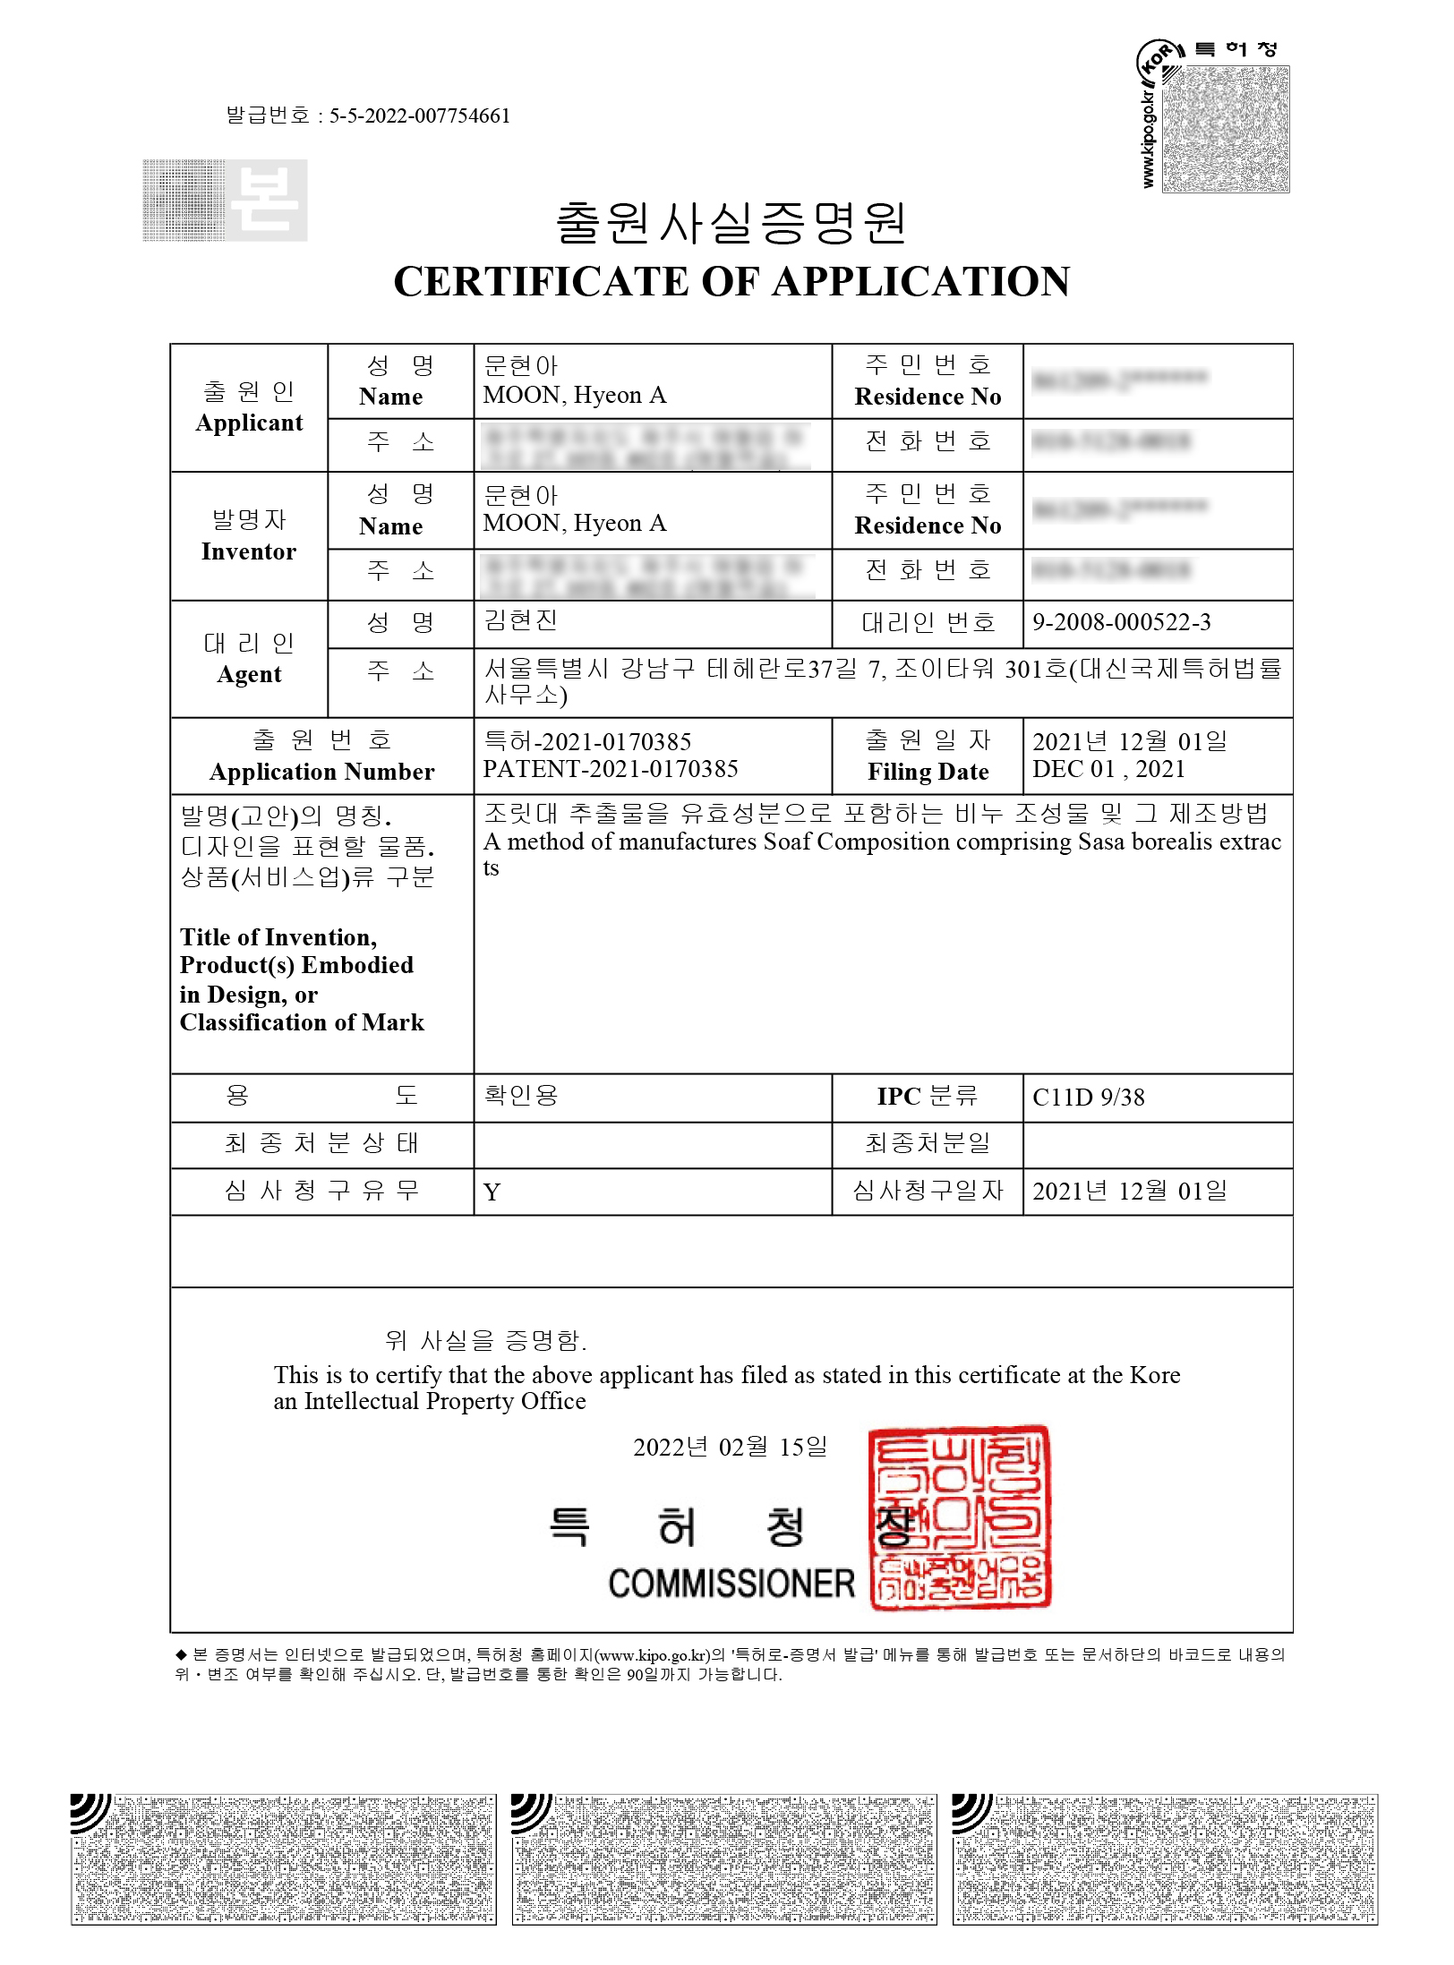
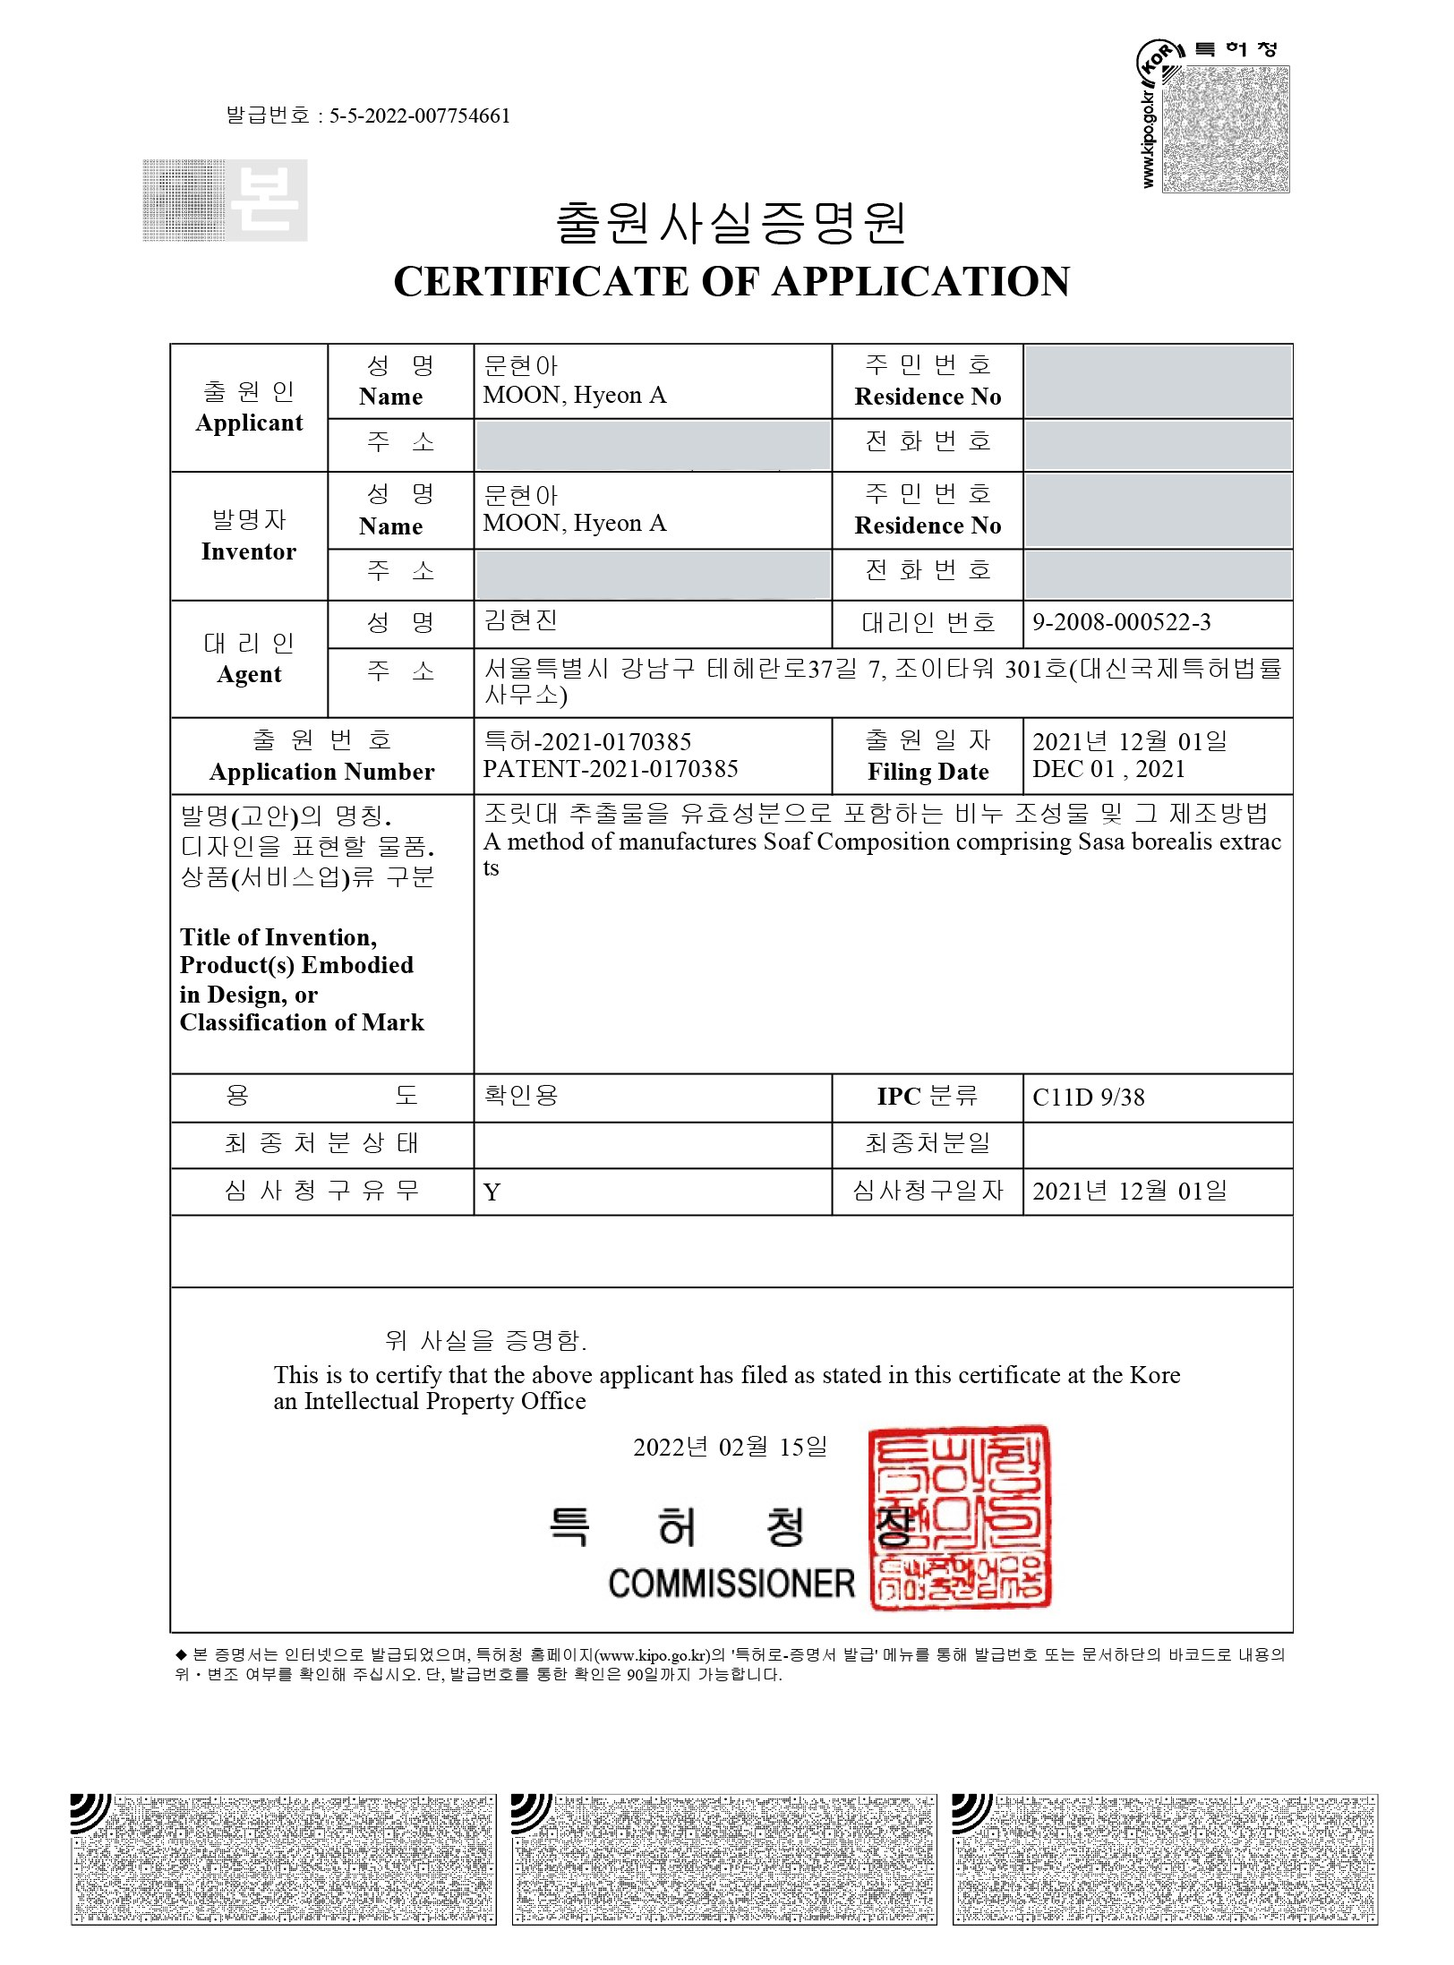
Show research documents at A4, mask personal data, refresh social value
Research slides use A4 cards. Application certificates now cover resident
numbers, phone numbers and addresses with solid fills instead of a light blur.
Social value cards take the supplied copy and an Earth and nature backdrop.

diff --git a/public/assets/css/main.css b/public/assets/css/main.css
@@ -1123,10 +1123,11 @@ html[lang="en"] .about-reveal-line {
 
 /* Side cards sit on a full-width band; the centre card grows past the band and over its neighbours. */
 .research-slider {
-    --research-card-w: clamp(150px, 16.25vw, 320px);
-    --research-card-h: calc(var(--research-card-w) * .93);
-    --research-active-w: calc(var(--research-card-w) * 1.73);
-    --research-active-h: calc(var(--research-card-w) * 1.41);
+    /* Cards keep the A4 ratio (210 x 297), so a certificate fills its card. */
+    --research-active-w: clamp(270px, min(30vw, 50svh), 520px);
+    --research-active-h: calc(var(--research-active-w) * 297 / 210);
+    --research-card-w: calc(var(--research-active-w) / 1.4);
+    --research-card-h: calc(var(--research-active-h) / 1.4);
     position: relative;
     width: 100%;
 }
@@ -1136,7 +1137,7 @@ html[lang="en"] .about-reveal-line {
     top: 50%;
     right: 0;
     left: 0;
-    height: calc(var(--research-card-w) * 1.32);
+    height: var(--research-card-w);
     background: var(--grey-100);
     content: "";
     transform: translateY(-50%);
@@ -1185,15 +1186,10 @@ html[lang="en"] .about-reveal-line {
     display: block;
     width: 100%;
     height: 100%;
-    object-fit: cover;
-    -webkit-user-drag: none;
-}
-
-/* Upright documents are shown whole. */
-.research-card.is-portrait img {
     box-sizing: border-box;
-    padding: clamp(6px, .75vw, 14px);
+    padding: clamp(4px, .5vw, 10px);
     object-fit: contain;
+    -webkit-user-drag: none;
 }
 
 @media (prefers-reduced-motion: reduce) {
@@ -1310,7 +1306,29 @@ html[lang="en"] .about-reveal-line {
 /* Social value */
 .care-section {
     position: relative;
+    isolation: isolate;
+    overflow: hidden;
     padding: clamp(100px, 11.46vw, 220px) 0;
+    background: var(--grey-900);
+    color: var(--white);
+    --care-line: color-mix(in srgb, var(--white) 28%, var(--transparent));
+}
+
+.care-backdrop {
+    position: absolute;
+    inset: 0;
+    z-index: -1;
+    width: 100%;
+    height: 100%;
+    object-fit: cover;
+}
+
+.care-section:after {
+    content: "";
+    position: absolute;
+    inset: 0;
+    z-index: -1;
+    background: color-mix(in srgb, var(--grey-900) 45%, var(--transparent));
 }
 
 .care-section .section-head {
@@ -1321,30 +1339,38 @@ html[lang="en"] .about-reveal-line {
     margin-top: clamp(20px, 1.67vw, 32px);
 }
 
+.care-section .section-category,
+.care-section .section-title,
+.care-section .section-desc {
+    color: var(--white);
+}
+
 .care-process {
-    display: flex;
+    /* Shared rows keep every card's title and description on the same lines. */
+    display: grid;
+    grid-template-columns: repeat(5, minmax(0, 1fr));
+    grid-template-rows: minmax(160px, 1fr) auto auto;
     width: 100%;
-    border-top: 1px solid var(--grey-200);
-    border-bottom: 1px solid var(--grey-200);
+    min-height: 380px;
+    border-top: 1px solid var(--care-line);
+    border-bottom: 1px solid var(--care-line);
 }
 
 .care-item {
-    flex: 1;
     position: relative;
-    display: flex;
-    flex-direction: column;
-    justify-content: space-between;
-    height: 380px;
+    display: grid;
+    grid-row: span 3;
+    grid-template-rows: subgrid;
     padding: clamp(28px, 1.67vw, 32px);
     box-sizing: border-box;
-    border-left: 1px solid var(--grey-200);
-    color: var(--text);
+    border-left: 1px solid var(--care-line);
+    color: var(--white);
     text-decoration: none;
-    gap: clamp(10px, 1.04vw, 20px);
+    row-gap: 0;
 }
 
 .care-item:last-child {
-    border-right: 1px solid var(--grey-200);
+    border-right: 1px solid var(--care-line);
 }
 
 .care-icon {
@@ -1359,6 +1385,13 @@ html[lang="en"] .about-reveal-line {
     object-fit: contain;
 }
 
+.care-content {
+    display: grid;
+    grid-row: span 2;
+    grid-template-rows: subgrid;
+    row-gap: 0;
+}
+
 .care-content h3 {
     margin: 0 0 8px;
     font-size: clamp(20px, 1.25vw, 24px);
@@ -1366,31 +1399,41 @@ html[lang="en"] .about-reveal-line {
 }
 
 .care-content p {
-    color: var(--text-sub);
+    color: color-mix(in srgb, var(--white) 86%, var(--transparent));
     font-size: 16px;
     font-weight: var(--fw-400);
+    line-height: 1.5;
+    word-break: keep-all;
 }
 
 .care-icon .site-icon {
     display: block;
     width: 100%;
     height: 100%;
-    color: var(--primary);
+    color: var(--white);
 }
 
 @media screen and (max-width:970px) {
+    .care-process {
+        display: flex;
+        flex-direction: column;
+        min-height: 0;
+    }
+
     .care-item {
-        border-right: 1px solid var(--grey-200);
-        border-bottom: 1px solid var(--grey-200);
-        height: auto;
+        display: flex;
+        flex-direction: column;
+        gap: 20px;
+        border-right: 1px solid var(--care-line);
+        border-bottom: 1px solid var(--care-line);
     }
 
     .care-item:last-child {
         border-bottom: 0;
     }
 
-    .care-process {
-        flex-direction: column;
+    .care-content {
+        display: block;
     }
 }
 

diff --git a/public/assets/js/research-slider.js b/public/assets/js/research-slider.js
@@ -9,8 +9,8 @@ function initResearchSlider() {
         centeredSlides:true,
         loop:looping,
         loopAdditionalSlides:2,
-        spaceBetween:16,
-        breakpoints:{ 971:{ spaceBetween:36 } },
+        spaceBetween:44,
+        breakpoints:{ 971:{ spaceBetween:76 } },
         speed:reducedMotion ? 0 : 600,
         grabCursor:true,
         slideToClickedSlide:true,

diff --git a/includes/lang/en.php b/includes/lang/en.php
@@ -176,14 +176,14 @@ return [
     "함께할 파트너를 찾습니다" => "We're looking for partners",
     "인증 사회적기업·SVI 우수등급" => "Certified Social Enterprise · SVI Excellent Rating",
     "지역 청년·취약계층 고용" => "Hiring local youth and vulnerable groups",
-    "플라스틱 제로 포장" => "Zero-plastic packaging",
-    "지역 원물 제값 구매" => "Fair prices for local produce",
+    "환경 친화적인 포장" => "Eco-friendly packaging",
+    "로컬 원료 사용" => "Using local ingredients",
+    "대한민국 정부에서 인증한 사회적가치지표(Social Value Index)에 맞추어 사회적 가치와 혁신을 추구하여 우수 등급을 획득하였습니다." => "Guided by the Social Value Index certified by the Korean government, we pursue social value and innovation and have earned an excellent rating.",
+    "지역 청년과 취약계층의 일자리를 창출하여 기업과 지역이 함께 성장할 기회를 만듭니다." => "We create jobs for local youth and vulnerable groups, giving the company and the community a chance to grow together.",
+    "환경을 생각한 포장방식과 용기선택을 통해 제품을 전하는 과정까지 환경을 생각합니다." => "Through environmentally minded packaging methods and containers, we care for the environment all the way to delivery.",
+    "한국에서 재배되는 다양한 로컬 원료를 사용하고 한국에서 전 제품 제조함으로서 탄소배출을 최소화 하고 지역 농어민의 소득창출에 기여합니다." => "We use a variety of local ingredients grown in Korea and make every product in Korea, minimizing carbon emissions and contributing to the incomes of local farmers and fishers.",
+    "길위의 동물들, 사람의 손길이 필요한 동물들을 위해 인식개선 및 입양 홍보활동에 함께하며 동물권 향상을 위해 노력합니다." => "For animals on the street and animals in need of human care, we join awareness and adoption campaigns and work to advance animal rights.",
     "유기동물 사회공헌" => "Giving back to abandoned animals",
-    "반려동물의 건강을 위한 연구와 실천으로\n제주와 함께하는 사회적 가치를 만듭니다." => "Through research and action for pet health, we create social value together with Jeju.",
-    "지역 청년과 취약계층에게\n함께 일하고 성장할 기회를 만듭니다." => "We create opportunities for local youth and vulnerable groups to work and grow with us.",
-    "제품을 전하는 과정까지 환경을 생각합니다." => "We care for the environment all the way to delivery.",
-    "제주의 원물을 제값에 구매하며\n지역 생산자와 함께 성장합니다." => "We pay fair prices for Jeju produce and grow alongside local producers.",
-    "도움이 필요한 동물들을 위한 나눔으로\n사람과 동물의 행복한 공존을 이어갑니다." => "By sharing with animals in need, we keep people and animals living happily together.",
     "짜먹는 간식" => "Squeeze Treats",
     "유산균" => "Probiotics",
     "동결건조 간식" => "Freeze-Dried Treats",

diff --git a/includes/lang/zh.php b/includes/lang/zh.php
@@ -176,14 +176,14 @@ return [
     "함께할 파트너를 찾습니다" => "诚邀合作伙伴",
     "인증 사회적기업·SVI 우수등급" => "认证社会企业 · SVI 优秀评级",
     "지역 청년·취약계층 고용" => "雇用当地青年及弱势群体",
-    "플라스틱 제로 포장" => "零塑料包装",
-    "지역 원물 제값 구매" => "以合理价格采购当地原料",
+    "환경 친화적인 포장" => "环保包装",
+    "로컬 원료 사용" => "使用本地原料",
+    "대한민국 정부에서 인증한 사회적가치지표(Social Value Index)에 맞추어 사회적 가치와 혁신을 추구하여 우수 등급을 획득하였습니다." => "遵循韩国政府认证的社会价值指标(Social Value Index),追求社会价值与创新,并获得优秀评级。",
+    "지역 청년과 취약계층의 일자리를 창출하여 기업과 지역이 함께 성장할 기회를 만듭니다." => "为当地青年和弱势群体创造就业,让企业与地方拥有共同成长的机会。",
+    "환경을 생각한 포장방식과 용기선택을 통해 제품을 전하는 과정까지 환경을 생각합니다." => "通过环保的包装方式与容器选择,从产品到交付全程关注环境。",
+    "한국에서 재배되는 다양한 로컬 원료를 사용하고 한국에서 전 제품 제조함으로서 탄소배출을 최소화 하고 지역 농어민의 소득창출에 기여합니다." => "使用韩国种植的多种本地原料,并在韩国生产全部产品,以尽量减少碳排放,助力当地农渔民增收。",
+    "길위의 동물들, 사람의 손길이 필요한 동물들을 위해 인식개선 및 입양 홍보활동에 함께하며 동물권 향상을 위해 노력합니다." => "为流浪动物和需要关爱的动物,参与意识改善与领养宣传活动,并努力提升动物权益。",
     "유기동물 사회공헌" => "为流浪动物贡献力量",
-    "반려동물의 건강을 위한 연구와 실천으로\n제주와 함께하는 사회적 가치를 만듭니다." => "通过守护宠物健康的研究与实践,\n与济州共创社会价值。",
-    "지역 청년과 취약계층에게\n함께 일하고 성장할 기회를 만듭니다." => "为当地青年和弱势群体\n创造共同工作、共同成长的机会。",
-    "제품을 전하는 과정까지 환경을 생각합니다." => "从产品到交付,全程关注环境。",
-    "제주의 원물을 제값에 구매하며\n지역 생산자와 함께 성장합니다." => "以合理价格采购济州原料,\n与当地生产者共同成长。",
-    "도움이 필요한 동물들을 위한 나눔으로\n사람과 동물의 행복한 공존을 이어갑니다." => "通过帮助需要关爱的动物,\n延续人与动物的幸福共存。",
     "짜먹는 간식" => "肉泥零食",
     "유산균" => "益生菌",
     "동결건조 간식" => "冻干零食",

diff --git a/includes/content.php b/includes/content.php
@@ -45,16 +45,16 @@ return [
     'values' => [
         '인증 사회적기업·SVI 우수등급',
         '지역 청년·취약계층 고용',
-        '플라스틱 제로 포장',
-        '지역 원물 제값 구매',
+        '환경 친화적인 포장',
+        '로컬 원료 사용',
         '유기동물 사회공헌',
     ],
     'value_descriptions' => [
-        "반려동물의 건강을 위한 연구와 실천으로\n제주와 함께하는 사회적 가치를 만듭니다.",
-        "지역 청년과 취약계층에게\n함께 일하고 성장할 기회를 만듭니다.",
-        "제품을 전하는 과정까지 환경을 생각합니다.",
-        "제주의 원물을 제값에 구매하며\n지역 생산자와 함께 성장합니다.",
-        "도움이 필요한 동물들을 위한 나눔으로\n사람과 동물의 행복한 공존을 이어갑니다.",
+        '대한민국 정부에서 인증한 사회적가치지표(Social Value Index)에 맞추어 사회적 가치와 혁신을 추구하여 우수 등급을 획득하였습니다.',
+        '지역 청년과 취약계층의 일자리를 창출하여 기업과 지역이 함께 성장할 기회를 만듭니다.',
+        '환경을 생각한 포장방식과 용기선택을 통해 제품을 전하는 과정까지 환경을 생각합니다.',
+        '한국에서 재배되는 다양한 로컬 원료를 사용하고 한국에서 전 제품 제조함으로서 탄소배출을 최소화 하고 지역 농어민의 소득창출에 기여합니다.',
+        '길위의 동물들, 사람의 손길이 필요한 동물들을 위해 인식개선 및 입양 홍보활동에 함께하며 동물권 향상을 위해 노력합니다.',
     ],
     // Names and sizes come from the real packaging. Lorem ipsum marks copy that is not confirmed yet.
     'product_categories' => [

diff --git a/tools/check.py b/tools/check.py
@@ -68,7 +68,7 @@ expected_copy={
 'global-title':'제주에서 세계로',
 'research':'벨아벨팜만의 특별한 기술력','research-statement':'Safety from JEJU\n치료가 아닌 예방을 위한 펫제품 천연물질 특화기술',
 'social':'우리 모두는 지구의 시민입니다','social-body':'지구의 시민인 우리 모두의 공존을 위한 지속가능한 가치를 지향하며\n제품 개발부터 경영까지 사회적기업으로서의 책임을 다하고 있습니다.','family':'벨아벨팜이 만드는 브랜드','brand-label':'프롬한라','brand-subtitle':'펫 웰니스','partner':'함께할 파트너를 찾습니다',
-'contact':'partner@jejubellabell.com · 064-803-0060','value-0':'인증 사회적기업·SVI 우수등급','value-1':'지역 청년·취약계층 고용','value-2':'플라스틱 제로 포장','value-3':'지역 원물 제값 구매','value-4':'유기동물 사회공헌',
+'contact':'partner@jejubellabell.com · 064-803-0060','value-0':'인증 사회적기업·SVI 우수등급','value-1':'지역 청년·취약계층 고용','value-2':'환경 친화적인 포장','value-3':'로컬 원료 사용','value-4':'유기동물 사회공헌',
 }
 copies={n.a['data-copy']:n.text() for n in nodes if 'data-copy' in n.a}
 for key,text in expected_copy.items():check('Confirmed copy is verbatim',copies.get(key)==text,key)

diff --git a/includes/research.php b/includes/research.php
@@ -25,7 +25,7 @@ for ($pass = 0; $pass === 0 || ($researchLoop && count($researchTrack) < 20); $p
 <div class="swiper-wrapper">
 <?php foreach ($researchTrack as $slide): ?>
 <div class="swiper-slide research-slide"<?= $slide['repeat'] ? ' aria-hidden="true"' : '' ?>>
-<figure class="research-card<?= $slide['height'] > $slide['width'] ? ' is-portrait' : '' ?>"><img src="<?= e($slide['src']) ?>" alt="<?= $slide['repeat'] ? '' : e($slide['alt']) ?>" width="<?= (int)$slide['width'] ?>" height="<?= (int)$slide['height'] ?>" loading="lazy" decoding="async" draggable="false"/></figure>
+<figure class="research-card"><img src="<?= e($slide['src']) ?>" alt="<?= $slide['repeat'] ? '' : e($slide['alt']) ?>" width="<?= (int)$slide['width'] ?>" height="<?= (int)$slide['height'] ?>" loading="lazy" decoding="async" draggable="false"/></figure>
 </div>
 <?php endforeach; ?>
 </div>

diff --git a/public/index.php b/public/index.php
@@ -170,6 +170,7 @@ $heroCopy = explode(' / ', $content['intro'], 2);
 </section>
 <?php require __DIR__ . '/../includes/research.php'; ?>
 <section class="care-section" data-section="social" id="social">
+<img class="care-backdrop" src="/assets/media/social-earth.webp" alt="" loading="lazy" decoding="async"/>
 <div class="section-head inner">
 <div class="section-category" data-fade="">
 <p lang="en">Social Value</p>
